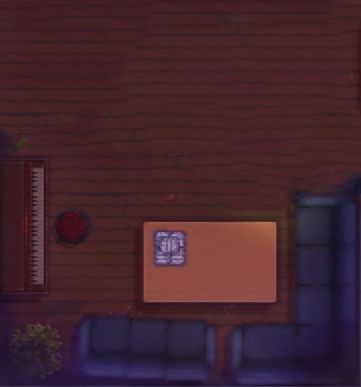
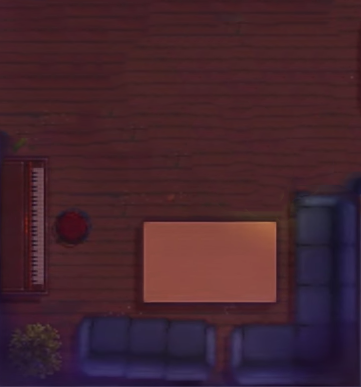
final update, enemy added, pick up item added

Changed region(s): [[0.4266, 0.5891, 0.518, 0.7132]]

diff --git a/assignment/JS-PROJECTS/final-project/js/RoomManagement.js b/assignment/JS-PROJECTS/final-project/js/RoomManagement.js
@@ -1,20 +1,28 @@
+/**
+ * can manage the room position and size, image from here
+ * @method      ManageRoom
+ * @param       {[type]}   c      [description]
+ * @param       {[type]}   canvas [description]
+ * @constructor
+ */
+
 function ManageRoom(c,canvas){
   this.c =c;
   this.canvas =canvas;
-
   this.roomArr = [];
   this.loadCount = 0;
-
 /**
  * here you can create the room ,
  * for the paramerter of the object
  * (context,x,y,width,height,borderTOP,borderRIGHT,borderBOTTOM,borderLEFT)
- * for border, 0 = No border/wall, 1 = 100% border/wall, 2 = border/wall with door
+ * for border, 0 = No border/wall, 1 = 100% border/wall,
  * color of the room and name of the room
  */
 
 
  //outside of the room
+ 
+
  this.outsideBottom = new Room(this.c,350,270,1193,300,0,1,1,0,'#949494',"outsideBottom");
  this.img = document.getElementById('outsideBottom');
  this.outsideBottom.setBgImage(this.img);
@@ -25,7 +33,7 @@ function ManageRoom(c,canvas){
  this.outsideBottom.setBgImage(this.img);
  this.roomArr.push(this.outsideBottom);
 
- this.bathroom = new Room(this.c,1145,100,184,168,0,1,1,0,'#949494',"bathroom");
+ this.bathroom = new Room(this.c,1145,100,184,168,0,0,1,0,'#949494',"bathroom");
  this.img = document.getElementById('bathroom3');
  this.bathroom.setBgImage(this.img);
  this.roomArr.push(this.bathroom);
@@ -66,7 +74,7 @@ function ManageRoom(c,canvas){
   this.img = document.getElementById('bathroom4');
   this.bathroom4.setBgImage(this.img);
   this.roomArr.push(this.bathroom4);
-  this.bathroom5 = new Room(this.c,1328,-878,197,161,1,0,0,0,'#949494',"bathroom2");//top left room
+  this.bathroom5 = new Room(this.c,1328,-878,197,161,1,1,0,0,'#949494',"bathroom2");//top left room
   this.img = document.getElementById('bathroom5');
   this.bathroom5.setBgImage(this.img);
   this.roomArr.push(this.bathroom5);
@@ -76,12 +84,22 @@ function ManageRoom(c,canvas){
   this.bedroomDown.setBgImage(this.img);
   this.roomArr.push(this.bedroomDown);
 
+  this.bedRoomUp = new Room(this.c,1555,-878,455,360,1,1,1,0,'#949494',"bedroom2");//top left room
+  this.img = document.getElementById('bedRoomUp');
+  this.bedRoomUp.setBgImage(this.img);
+  this.roomArr.push(this.bedRoomUp);
+
   this.storeRoom = new Room(this.c,1528,-285,360,170,1,1,1,0,'#949494',"storeRoom");//top left room
   this.img = document.getElementById('storeRoom');
   this.storeRoom.setBgImage(this.img);
   this.roomArr.push(this.storeRoom);
 
-  this.pathUp = new Room(this.c,933,-878,200,391,1,0,0,0,'#949494',"bathroom2");//top left room
+  this.bikeRoom = new Room(this.c,1528,-487,140,173,0,1,0,0,'#949494',"bikeRoom");
+  this.img = document.getElementById('bikeRoom');
+  this.bikeRoom.setBgImage(this.img);
+  this.roomArr.push(this.bikeRoom);
+
+  this.pathUp = new Room(this.c,933,-878,200,391,1,0,0,0,'#949494',"pathup");
   this.img = document.getElementById('pathUp');
   this.pathUp.setBgImage(this.img);
   this.roomArr.push(this.pathUp);
@@ -106,7 +124,7 @@ function ManageRoom(c,canvas){
   this.path4.setBgImage(this.img);
   this.roomArr.push(this.path4);
 
-  this.livingroom = new Room(this.c,380,-878,553,361,1,1,1,1,'#949494',"meetingHall");
+  this.livingroom = new Room(this.c,380,-878,553,361,1,0,1,1,'#949494',"meetingHall");
   this.img = document.getElementById('meetingHall');
   this.livingroom.setBgImage(this.img);
   this.roomArr.push(this.livingroom);

diff --git a/assignment/JS-PROJECTS/final-project/js/main.js b/assignment/JS-PROJECTS/final-project/js/main.js
@@ -30,6 +30,7 @@ function Game(canvas,c){
   this.uiObj = new Ui(this.c,this.canvas);
   this.enemyCount =0;
   this.gameOver = false;
+  this.objectManagement = new ObjectManagement(this.c);
 
 
 
@@ -110,6 +111,12 @@ this.resetGame = function(){
       for (var i = 0; i < this.manageRoomObj.roomArr.length; i++) {
         this.manageRoomObj.roomArr[i].update(this.playerObj);
       }
+      for (var i = 0; i < this.objectManagement.objArr.length; i++) {
+
+        this.objectManagement.objArr[i].updatePos(this.playerObj.moveX,this.playerObj.moveY);
+
+      }
+
   }
   //-----------------------------------------GAME LOOP------------------------------------------------------//
 
@@ -121,6 +128,8 @@ this.resetGame = function(){
 this.gameLoop = function(){
     if(this.playerObj.isDead==false){
       this.updateEnvironmentPosition();
+
+
 
       //this.gridObj.updateGridPos(this.playerObj.moveX,this.playerObj.moveY);
       this.playerObj.moveX =0;
@@ -162,6 +171,16 @@ this.gameLoop = function(){
         console.log("game over");
         this.gameOver = true;
       }
+
+      for (var i = 0; i < this.objectManagement.objArr.length; i++) {
+        this.objectManagement.objArr[i].checkCollisionObject(this.playerObj);
+        this.objectManagement.objArr[i].show();
+        if(this.objectManagement.objArr[i].itemPicked==true){
+          this.scoreObj.increaseScore(250);
+          this.objectManagement.objArr.splice(i,1);
+        }
+      }
+
       //that.gridObj.renderGrid();
 
     }

diff --git a/assignment/JS-PROJECTS/final-project/js/enemyManagement.js b/assignment/JS-PROJECTS/final-project/js/enemyManagement.js
@@ -13,9 +13,22 @@ this.initEnemyArr = function(){
       this.enemyObj.initEnemy(500,100,Math.floor(Math.random()*350));
       this.enemyArr.push(this.enemyObj);
 
-      // this.enemyObj = new Enemy(this.c,this.playerX,this.playerY,this.playerObj,this.manageRoomObj);
-      // this.enemyObj.initEnemy(1100,-10,Math.floor(Math.random()*350));
-      // this.enemyArr.push(this.enemyObj);
+      this.enemyObj = new Enemy(this.c,this.playerX,this.playerY,this.playerObj,this.manageRoomObj);
+      this.enemyObj.initEnemy(1100,-10,Math.floor(Math.random()*350));
+      this.enemyArr.push(this.enemyObj);
+
+      this.enemyObj = new Enemy(this.c,this.playerX,this.playerY,this.playerObj,this.manageRoomObj);
+      this.enemyObj.initEnemy(1800,10,Math.floor(Math.random()*350));
+      this.enemyArr.push(this.enemyObj);
+
+      this.enemyObj = new Enemy(this.c,this.playerX,this.playerY,this.playerObj,this.manageRoomObj);
+      this.enemyObj.initEnemy(500,-700,Math.floor(Math.random()*350));
+      this.enemyArr.push(this.enemyObj);
+
+      this.enemyObj = new Enemy(this.c,this.playerX,this.playerY,this.playerObj,this.manageRoomObj);
+      this.enemyObj.initEnemy(700,-600,Math.floor(Math.random()*350));
+      this.enemyArr.push(this.enemyObj);
+
       //
       // this.enemyObj = new Enemy(this.c,this.playerX,this.playerY,this.playerObj,this.manageRoomObj);
       // this.enemyObj.initEnemy(1200,-30,Math.floor(Math.random()*350));

diff --git a/assignment/JS-PROJECTS/final-project/index.html b/assignment/JS-PROJECTS/final-project/index.html
@@ -32,8 +32,10 @@
     <img src="images/path4.png" alt="" id="path4">
 
     <img src="images/bedroomDown.png" alt="" id="bedroomDown">
+    <img src="images/bedroom2.png" alt="" id="bedRoomUp">
     <img src="images/storeRoom.png" alt="" id="storeRoom">
-
+    <img src="images/bike.png" alt="" id="bikeRoom">
+<img src="images/collect.png" alt="" id="collect">
     <img src="images/meetingHall.png" alt="" id="meetingHall">
     <img src="images/verticalDoor.png" alt="" id="vertiDoor">
     <img src="images/vertiBorder.png" alt="" id="vertiBorder">
@@ -44,6 +46,7 @@
 
     <canvas id="canvas" width="300" height="300"></canvas>
     <!-- script here -->
+    <script src="js/object.js" charset="utf-8"></script>
     <script src="js/endScreen.js" charset="utf-8"></script>
     <script src="js/ui.js" charset="utf-8"></script>
     <script src="js/score.js" charset="utf-8"></script>
@@ -58,7 +61,7 @@
     <script src="js/roomBorder.js" charset="utf-8"></script>
     <script src="js/Rooms.js" charset="utf-8"></script>
 
-
+    <script src="js/objectManagement.js" charset="utf-8"></script>
     <script src="js/mouse.js" charset="utf-8"></script>
     <script src="js/playerController.js" charset="utf-8"></script>
     <script src="js/RoomManagement.js" charset="utf-8"></script>

diff --git a/assignment/JS-PROJECTS/final-project/js/object.js b/assignment/JS-PROJECTS/final-project/js/object.js
@@ -1,0 +1,43 @@
+function ObjectCollision(c){
+  this.c = c;
+  this.x;
+  this.y;
+  this.width;
+  this.height;
+  this.dX = 3;
+  this.dY = 3;
+  this.itemPicked = false;
+
+  this.initObject = function(x,y,width,height){
+    this.x = x;
+    this.y = y;
+    this.width = width;
+    this.height = height;
+    this.image = document.getElementById('collect');
+  }
+  this.show = function(){
+    this.c.beginPath();
+    this.c.drawImage(this.image,this.x,this.y,this.width,this.height);
+
+  }
+  this.checkCollisionObject = function(player){
+    //console.log("checlCollision");
+    this.player = player;
+
+    if(this.x<(this.player.x-(this.player.width/2))+this.player.width && this.x+this.width> this.player.x-(this.player.width/2) &&
+      this.y<this.player.y-(this.player.height/2)+this.player.height && this.y+ this.height > this.player.y-(this.player.height/2)){
+        // if(Math.abs(this.x-(this.player.x-(this.player.width/2)))> Math.abs(this.y-(this.player.y-(this.player.height/2))))
+
+        if(this.player.fPressed && this.itemPicked==false){
+          console.log("evidence collected");
+          this.itemPicked = true;
+        }
+
+      }
+
+  }
+  this.updatePos = function(moveX,moveY){
+    this.x-= moveX;
+    this.y-=moveY;
+  }
+}

diff --git a/assignment/JS-PROJECTS/final-project/js/Rooms.js b/assignment/JS-PROJECTS/final-project/js/Rooms.js
@@ -1,3 +1,20 @@
+/**
+ * [Room description]
+ * @method      Room
+ * @param       {context} c
+ * @param       {*} x
+ * @param       {*} y
+ * @param       {*} width
+ * @param       {*} height
+ * @param       {*} t
+ * @param       {*} r
+ * @param       {*} d
+ * @param       {*} l
+ * @param       {*} color
+ * @param       {*} name   optional
+ * @constructor
+ */
+
 function Room(c,x,y,width,height,t,r,d,l,color,name) {
   this.c = c;
   this.room = {
@@ -16,6 +33,10 @@ this.sideOfRoom ={
   d:d
 }
 
+/**
+ * Create the room object from here
+ * @type {RoomBorder}
+ */
 
   this.borderObj = new RoomBorder(this.c,0,0,this.sideOfRoom.t,this.sideOfRoom.r,this.sideOfRoom.d,this.sideOfRoom.l,this.room);
   this.borderObj.initBorder();
@@ -35,8 +56,15 @@ this.sideOfRoom ={
   this.setBgImage = function(img){
     this.room.img = img;
   }
-  this.update = function(player){
 
+  /**
+   * update the position of the rooms
+   * @method
+   * @param  {[type]} player 
+   * @return {[type]}
+   */
+
+  this.update = function(player){
     this.room.x-=player.moveX;
     this.room.y-=player.moveY;
     this.borderObj.verticalBorder.x-=player.moveX;

diff --git a/assignment/JS-PROJECTS/final-project/js/playerController.js b/assignment/JS-PROJECTS/final-project/js/playerController.js
@@ -5,7 +5,7 @@ function Player(c,width,height){
   this.gameHeight=height;
   this.x=this.gameWidth/2;
   this.y=this.gameHeight/2;
-  this.speed =3;
+  this.speed =1.5;
   this.width=50;
   this.height=78;
   this.qPressed = false;
@@ -183,6 +183,9 @@ function Player(c,width,height){
       that.ePressed = true;
       that.textDelay = 200;
     }
+    if(event.keyCode==70){ // release e
+      that.fPressed = true;
+    }
   });
   /**
    * Event to listener to detect the KEY UP event
@@ -205,6 +208,9 @@ function Player(c,width,height){
     }
     if(event.keyCode==69){ // release e
       that.ePressed = false;
+    }
+    if(event.keyCode==70){ // release e
+      that.fPressed = false;
     }
   });
   //-----------------------------------------RAYCATING from the enemy the cordinate ------------------------------------------------------//

diff --git a/assignment/JS-PROJECTS/final-project/js/objectManagement.js b/assignment/JS-PROJECTS/final-project/js/objectManagement.js
@@ -1,0 +1,21 @@
+/**
+ * object for collision
+ * @method      ObjectManagement
+ * @param       {context}         c
+ * @constructor
+ */
+
+function ObjectManagement(c){
+  this.objArr = [];
+
+  this.obj1 = new ObjectCollision(c);
+  this.obj1.initObject(1000,300,32,32);
+  this.objArr.push(this.obj1);
+
+  this.obj1 = new ObjectCollision(c);
+  this.obj1.initObject(500,-50,32,32);
+  this.objArr.push(this.obj1);
+
+
+
+}

diff --git a/assignment/JS-PROJECTS/final-project/js/gameState.js b/assignment/JS-PROJECTS/final-project/js/gameState.js
@@ -38,8 +38,7 @@ function GameState(canvas){
     that.menuStart = false;
   }
 
-function animate(){
-  requestAnimationFrame(animate);
+setInterval(function(){
   that.c.clearRect(this.x,this.y,this.width,this.height);
   //start Game
   if(that.gameStarted==true){
@@ -72,9 +71,12 @@ function animate(){
   if(that.menuStart==true){
     that.menuObj.showMenu();
   }
-}
 
-animate();
+},1);
+
+
+
+
 
 
 
